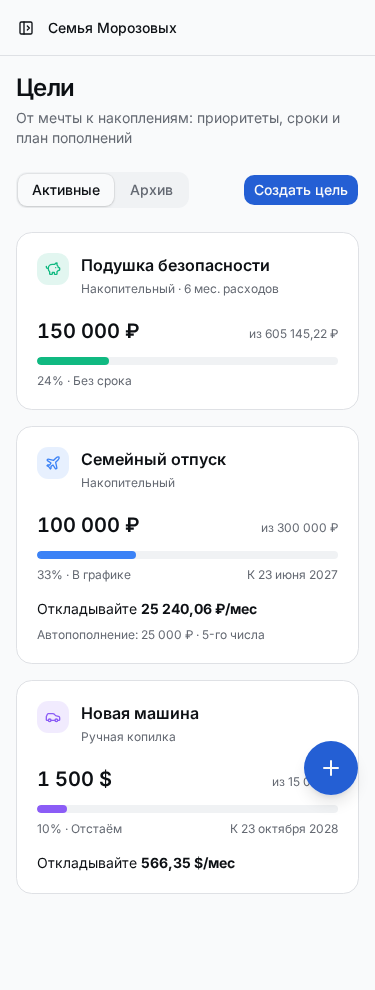
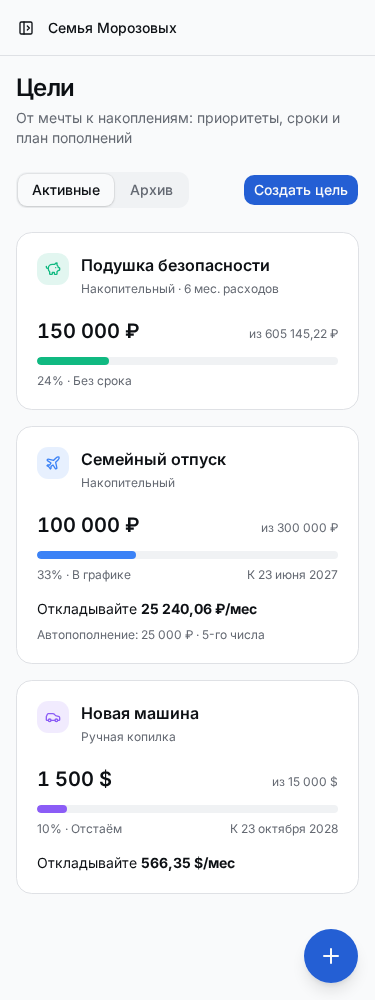
test: finalize mobile README captures

diff --git a/tests/screenshots/readme.spec.ts b/tests/screenshots/readme.spec.ts
@@ -60,7 +60,7 @@ test("seed-demo: README captures and all pages at 1280/375 in both themes", asyn
   for (const theme of ["light", "dark"]) {
     await page.evaluate((theme) => localStorage.setItem("theme", theme), theme)
     for (const width of [1280, 375]) {
-      await page.setViewportSize({ width, height: width === 375 ? 812 : 960 })
+      await page.setViewportSize({ width, height: width === 375 ? 1000 : 960 })
       for (const route of routes) {
         await page.goto(route)
         await expect(page.locator("html")).toHaveClass(new RegExp(theme))

diff --git a/docs/screenshots/readme/README.md b/docs/screenshots/readme/README.md
@@ -1,7 +1,8 @@
 # Скриншоты README — beta.2
 
 Сняты на production standalone, дата демо — 23 октября 2026. Все имена, операции и курсы вымышлены.
-Светлые скриншоты: обзор, календарь, ипотека (1280 px), цели (375 px).
+Светлые скриншоты: обзор целиком, календарь и ипотека (desktop-вьюпорт 1280×960), цели (375×1000).
+Для снимка целей экран выше, чтобы плавающая кнопка не перекрывала содержимое третьей карточки; узкий сценарий 375×812 дополнительно покрыт e2e.
 Календарь и цели имеют тёмные варианты; GitHub выбирает их по теме браузера через `<picture>`.
 
 Воспроизведение из корня репозитория:
